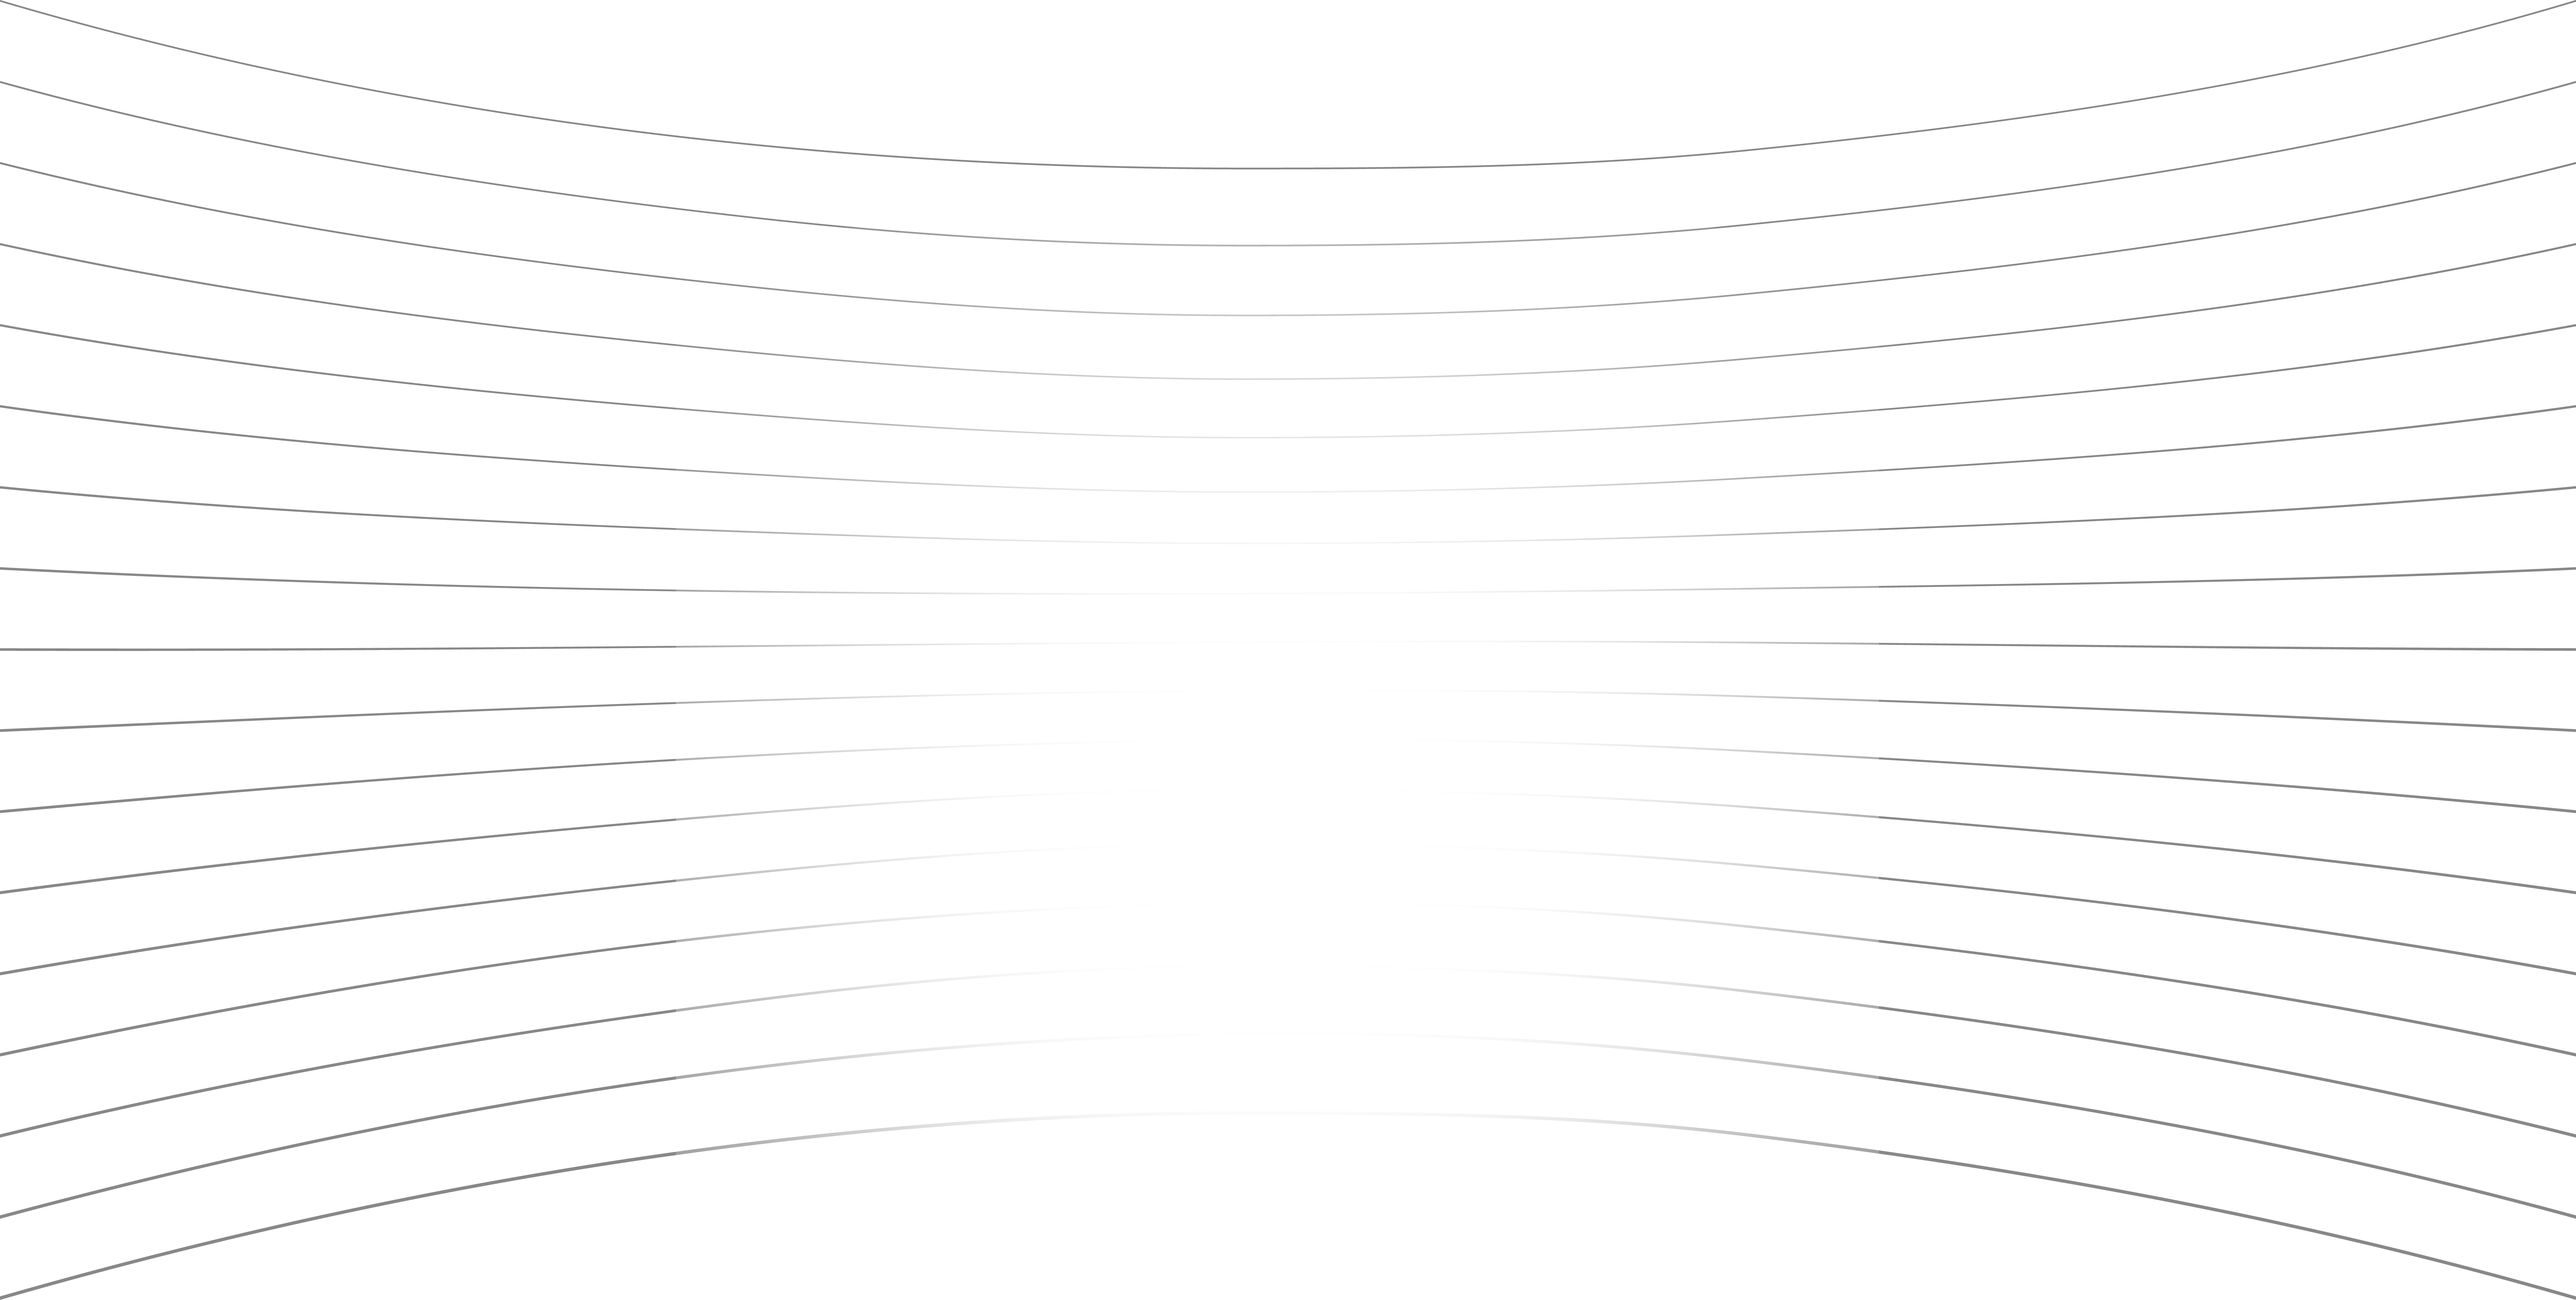
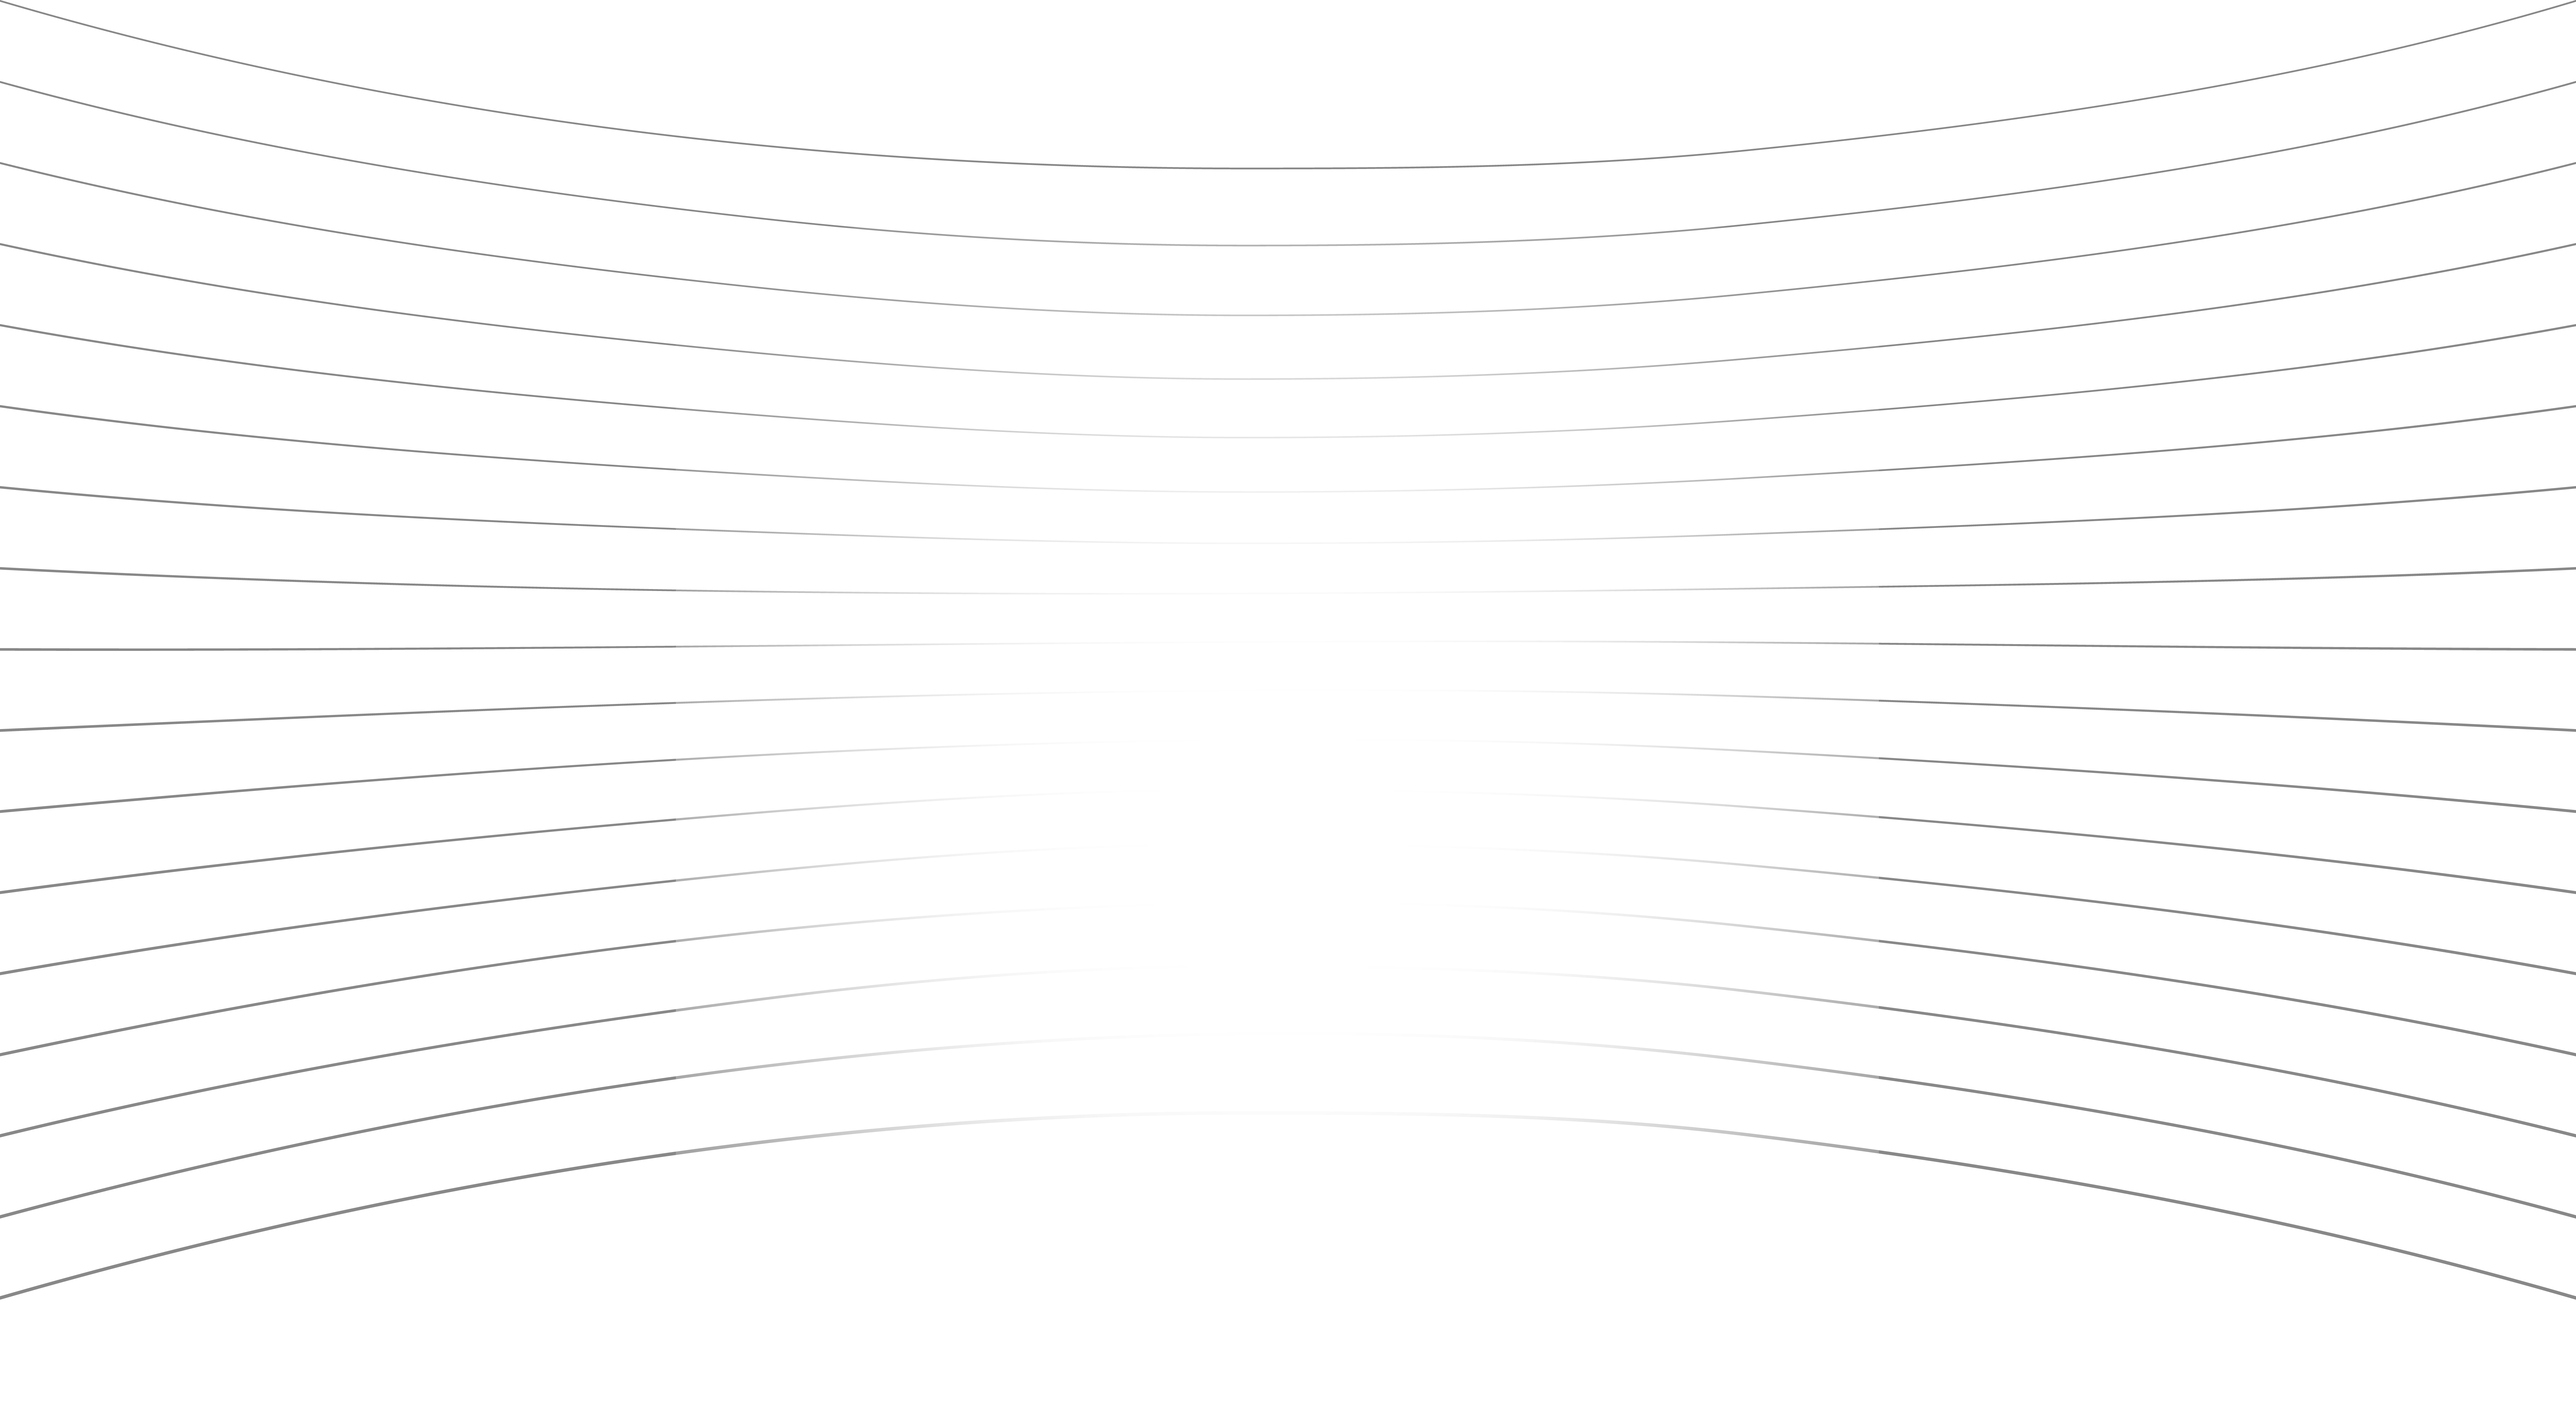
fixed bg

diff --git a/components/hero.tsx b/components/hero.tsx
@@ -30,12 +30,12 @@ export const Hero = () => {
   };
   return (
     <section className="relative h-screen px-8 text-darkGray w-full max-w-screen  flex flex-col items-center justify-end pb-[10vh] md:pb-[20vh] ">
-      <div className="absolute inset-0 -z-10">
+      <div className="absolute inset-0 -z-10 h-full">
         <motion.div style={{ opacity }} className="relative w-full h-full">
           <Image
             src={"/bg.png"}
             fill
-            className="inset-0 w-full h-full object-cover "
+            className="inset-0 w-full h-full object-cover aspect-video"
             alt="bgImage"
           />
         </motion.div>
